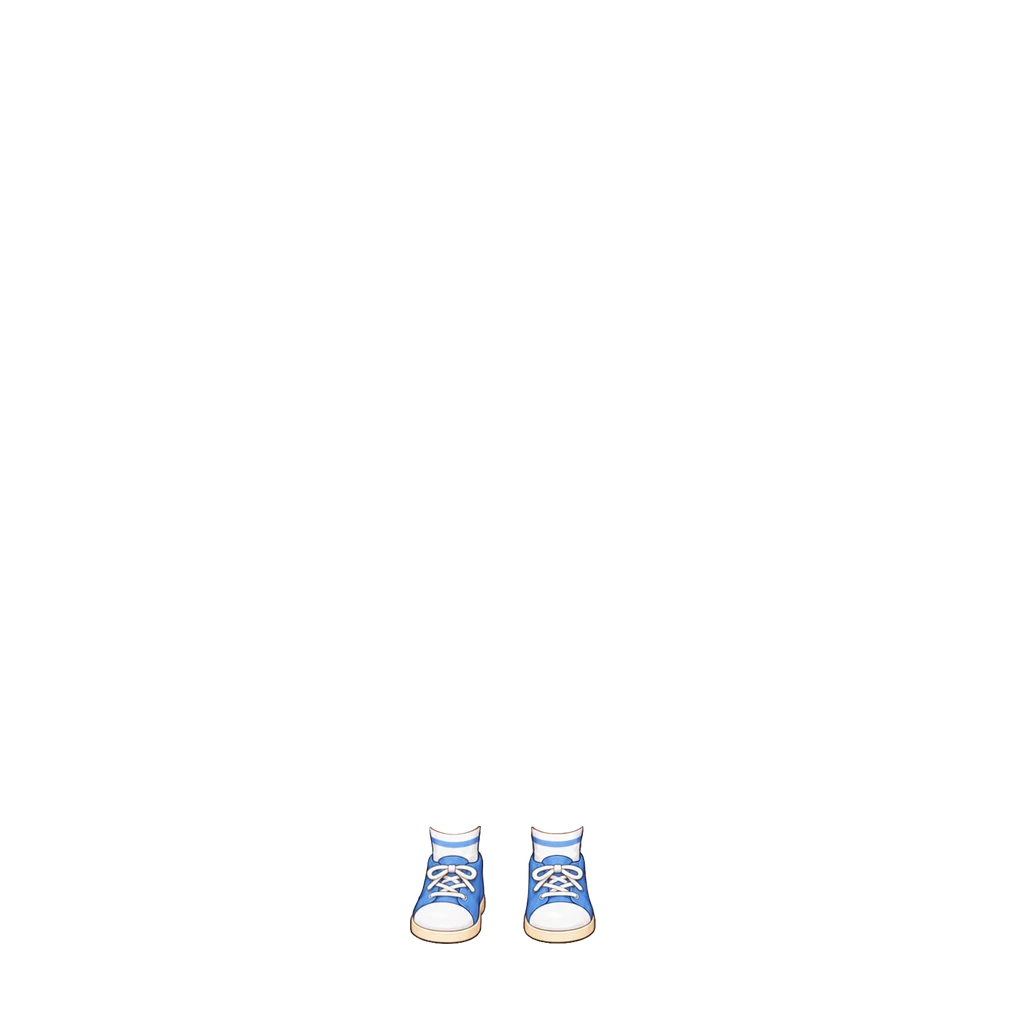
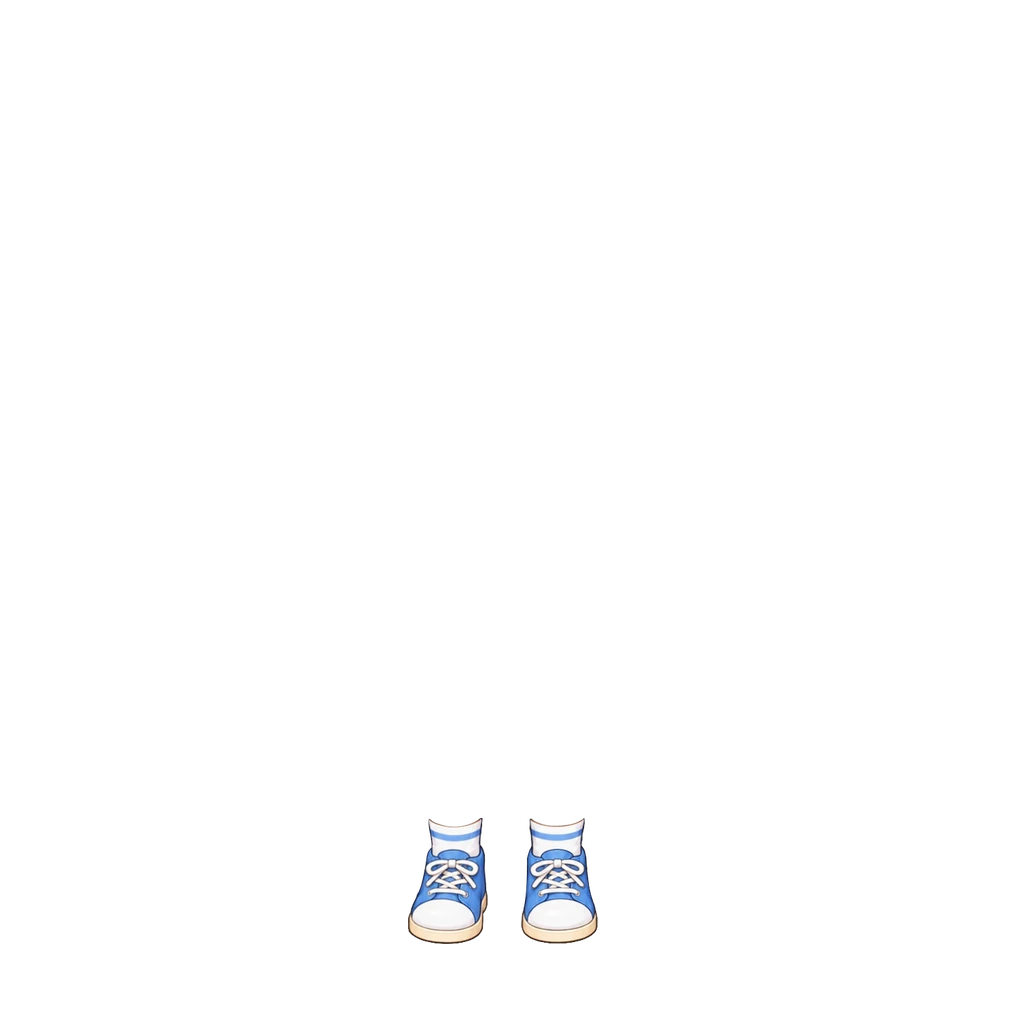
파랑 신발(여아) 6% 크게 (#803)
밑창·양말 가운데를 고정한 채 두 짝 배율 0.62→0.6572. img ?v=2.

Claude-Session: https://claude.ai/code/session_018maNuYqDfFyRSe9uKpZhPR

Changed region(s): [[0.375, 0.7812, 0.5938, 0.9062]]

diff --git a/src/data/avatarEquipment.js b/src/data/avatarEquipment.js
@@ -390,8 +390,9 @@ export const AVATAR_CATALOG = [
   { id: "shoes_pirate_girl", slot: "shoes", label: "꼬마해적 신발", emoji: "🥾", price:DECOR_PRICE.common, rarity: "common", theme: "pirate", forGender: "girl", img: "assets/avatar/shoes/pirate-boots-girl.webp?v=5", thumb: "assets/avatar/thumb/shoes_pirate_girl.webp" },
   /* 파랑 신발 [2026-10-03] — 여아. 파란 운동화 + 파란 줄 흰 양말 두 짝, 사용자 원화 286×191. 파랑 우편부 옷과 짝.
      들꽃 신발과 같은 방식 — 두 짝을 따로 잘라 원화 양말 가운데(왼짝 x72 · 오른짝 x53.5)를 다리 가운데(x455 · x556)에,
-     배율 0.62(양말 폭이 다리 폭과 맞는 크기), 밑창 아래끝 y944. 맨발 0px. 탑재 상자 (410,826,596,944). */
-  { id: "shoes_blue", slot: "shoes", label: "파랑 신발",   emoji: "👟", price:DECOR_PRICE.common, rarity: "common", theme: "common", forGender: "girl", img: "assets/avatar/shoes/blue-sneakers-girl.webp", thumb: "assets/avatar/thumb/shoes_blue.webp" },
+     배율 0.62(양말 폭이 다리 폭과 맞는 크기), 밑창 아래끝 y944. 맨발 0px. 탑재 상자 (410,826,596,944).
+     [2026-10-03] 사용자 조정 — 두 짝 6% 크게(배율 0.6572, 밑창·양말 가운데 고정). 탑재 상자 (408,818,598,944). img ?v=2. */
+  { id: "shoes_blue", slot: "shoes", label: "파랑 신발",   emoji: "👟", price:DECOR_PRICE.common, rarity: "common", theme: "common", forGender: "girl", img: "assets/avatar/shoes/blue-sneakers-girl.webp?v=2", thumb: "assets/avatar/thumb/shoes_blue.webp" },
 
 ];
 

diff --git a/art-src/README.md b/art-src/README.md
@@ -576,4 +576,4 @@ bbox로 여백만 잘라내고 배포본은 높이 480px로 축소했다(전부 
 | wildflower-boots-girl-src.webp | **들꽃 신발 원화 여아 (사용자 원화 2026-10-02)** — 264×191 투명 배경, 올리브 끈 부츠 두 짝(흰 양말 목, 주황 끈·밑창). 두 짝(x0~108 · x159~263)을 따로 잘라 배율 0.64 로 줄이고, 발목 가운데를 여아 다리 가운데(x455·x556)에, 밑창 아래끝을 y942 에 맞춤. 맨발 0px. 탑재 상자 (416,820,590,942). 상점 그림은 원화를 세로 160px 로 **[2026-10-03 조정]** 화면 오른쪽 짝만 오른쪽으로 2·2% 크게(0.6528). 탑재 상자 (416,817,593,942) · img ?v=2. 이어서 오른쪽 짝만 2% 더 크게(0.6659), 상자 (416,815,594,942) · img ?v=3. 다시 오른쪽 짝만 1% 더 크게(0.6725), 상자 (416,814,594,942) · img ?v=4 | avatar/shoes/wildflower-boots-girl.webp · thumb/shoes_wildflower.webp |
 | strawberry-shoes-girl-src.webp | **딸기 신발 원화 여아 (사용자 원화 2026-10-03)** — 253×156 투명 배경, 빨간 메리제인 + 흰 프릴 양말 두 짝. 두 짝(x0~100 · x156~252)을 따로 잘라 배율 0.66, 양말 가운데를 여아 다리 가운데(x455·x556)에 두고 왼짝 -3·오른짝 +1, 밑창 아래끝 y944. 맨발 0px. 탑재 상자 (417,841,590,944). 상점 그림은 원화를 세로 160px 로 | avatar/shoes/strawberry-shoes-girl.webp · thumb/shoes_strawberry.webp |
 | pirate-boots-girl-src.webp | **꼬마해적 신발 원화 여아 (사용자 원화 2026-10-03)** — 268×221 투명 배경, 갈색 끈 부츠 + 흰 양말 두 짝. 두 짝(x0~114 · x162~267)을 따로 잘라 배율 0.61, 발목 가운데를 여아 다리 가운데(x455·x556)에 두고 오른짝 +1, 밑창 아래끝 y942. 맨발 0px. 탑재 상자 (416,807,591,942). **[2026-10-03 조정]** 두 짝 4% 크게(0.6344), 상자 (415,802,592,942) · img ?v=2. 다시 4% 더 크게(0.6598), 상자 (413,796,594,942) · img ?v=3. 또 4% 더 크게(0.6862), 상자 (411,790,595,942) · img ?v=4. 또 4% 더 크게(0.7136), 상자 (410,784,597,942) · img ?v=5. 상점 그림은 원화를 세로 160px 로 | avatar/shoes/pirate-boots-girl.webp · thumb/shoes_pirate_girl.webp |
-| blue-sneakers-girl-src.webp | **파랑 신발 원화 여아 (사용자 원화 2026-10-03)** — 286×191 투명 배경, 파란 운동화 + 파란 줄 흰 양말 두 짝. 두 짝(x0~121 · x169~284)을 따로 잘라 배율 0.62, 양말 가운데를 여아 다리 가운데(x455·x556)에, 밑창 아래끝 y944. 맨발 0px. 탑재 상자 (410,826,596,944). 상점 그림은 원화를 세로 160px 로 | avatar/shoes/blue-sneakers-girl.webp · thumb/shoes_blue.webp |
+| blue-sneakers-girl-src.webp | **파랑 신발 원화 여아 (사용자 원화 2026-10-03)** — 286×191 투명 배경, 파란 운동화 + 파란 줄 흰 양말 두 짝. 두 짝(x0~121 · x169~284)을 따로 잘라 배율 0.62, 양말 가운데를 여아 다리 가운데(x455·x556)에, 밑창 아래끝 y944. 맨발 0px. 탑재 상자 (410,826,596,944). **[2026-10-03 조정]** 두 짝 6% 크게(0.6572), 상자 (408,818,598,944) · img ?v=2. 상점 그림은 원화를 세로 160px 로 | avatar/shoes/blue-sneakers-girl.webp · thumb/shoes_blue.webp |
